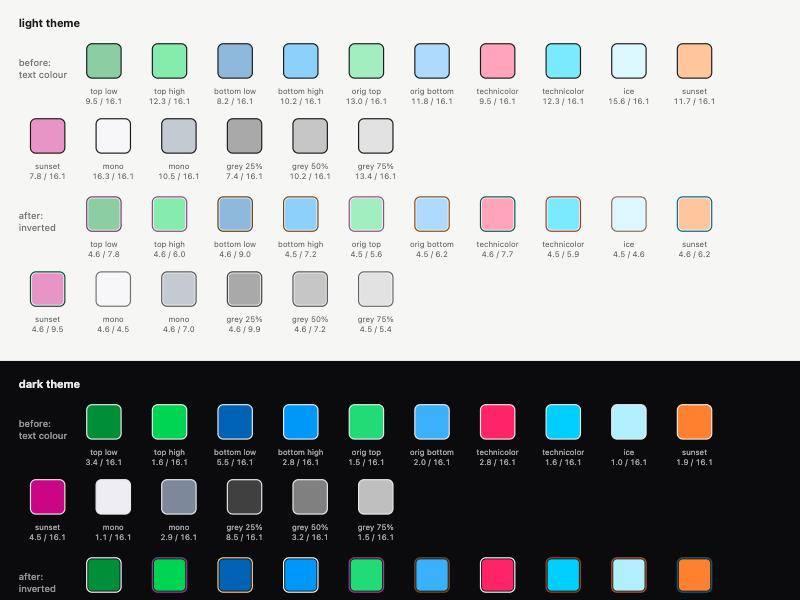
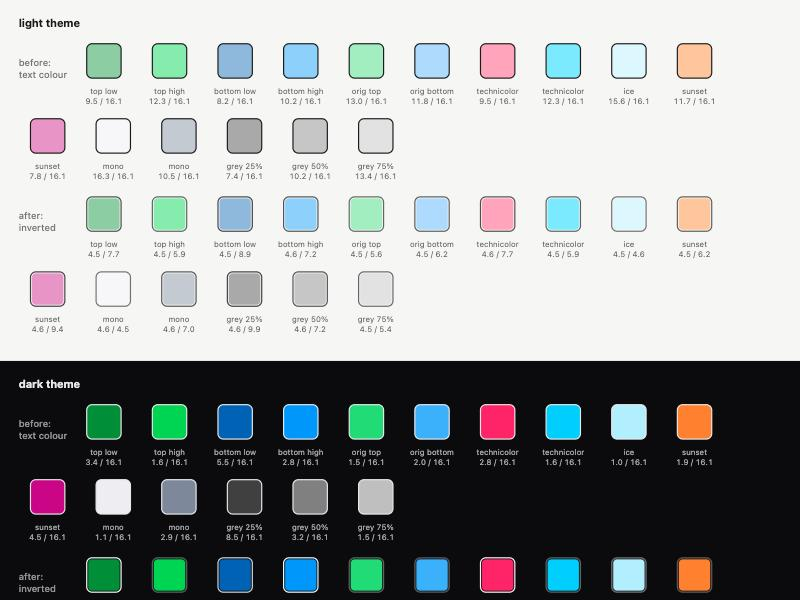
The inverted outline is monochrome: a grey chosen by contrast, never the column's hue
A green block no longer gets a purple line. Same contrast search against the column and the page, on greys only; casing in the page colour kept.

diff --git a/src/color.test.ts b/src/color.test.ts
@@ -86,21 +86,16 @@ describe("contrastRatio", () => {
 describe("invertedOutline", () => {
   const LIGHT = "#f6f6f4";
   const DARK = "#0b0b0e";
-  // (what the graph draws: the stock tones, the demo's palettes)
   // (the light theme's glass is a pale shell over its tone, which is the colour the outline is drawn on)
   const seen = (hex: string, bg: string) => (bg === LIGHT ? "#" + [1, 3, 5].map((i) => Math.round(parseInt(hex.slice(i, i + 2), 16) * 0.45 + 255 * 0.55).toString(16).padStart(2, "0")).join("") : hex);
+  // (what the graph draws: the stock tones, the demo's palettes)
   const COLOURS = ["#0a8f2c", "#00d63c", "#1658b8", "#1a8cff", "#3ddc6a", "#5aa9ff", "#ff3b6b", "#00c8ff", "#b9ecff", "#ff8a1f", "#c4128a", "#ffd60a"];
-  const hueGap = (a: string, b: string) => {
-    const d = Math.abs(lch(a).h - lch(b).h) % 360;
-    return Math.min(d, 360 - d);
-  };
+  const GREYS = ["#202020", "#404040", "#808080", "#a0a0a0", "#c0c0c0", "#e0e0e0"];
 
-  it("turns the hue half way round (blue to orange, green to magenta)", () => {
-    for (const hex of ["#1a8cff", "#3ddc6a", "#ff3b6b", "#c4128a"]) {
-      const out = invertedOutline(seen(hex, LIGHT), LIGHT);
-      // (the gamut can bend a colour's hue a little when it is made darker)
-      expect(Math.abs(hueGap(seen(hex, LIGHT), out) - 180)).toBeLessThan(25);
-      expect(lch(out).c).toBeGreaterThan(0.04);
+  it("is monochrome: a green cell does not get a purple line", () => {
+    for (const bg of [LIGHT, DARK]) for (const hex of [...COLOURS, ...GREYS]) {
+      const out = invertedOutline(seen(hex, bg), bg);
+      expect(out).toMatch(/^#([0-9a-f]{2})\1\1$/);
     }
   });
 
@@ -112,31 +107,23 @@ describe("invertedOutline", () => {
     }
   });
 
-  it("holds the contrast against the cell where the colours allow it, (and never the cell's own colour)", () => {
+  it("holds the contrast against the cell where the colours allow it", () => {
     for (const bg of [LIGHT, DARK]) for (const hex of COLOURS) {
       const cell = seen(hex, bg);
-      expect(contrastRatio(invertedOutline(cell, bg), cell)).toBeGreaterThanOrEqual(2.8);
+      expect(contrastRatio(invertedOutline(cell, bg), cell)).toBeGreaterThanOrEqual(2.7);
     }
-    // (on the light page every colour of the graph gets the whole of it)
     for (const hex of COLOURS) expect(contrastRatio(invertedOutline(seen(hex, LIGHT), LIGHT), seen(hex, LIGHT))).toBeGreaterThanOrEqual(OUTLINE_CONTRAST.cell - 0.2);
   });
 
-  it("gives a grey cell a grey outline of the opposite lightness, not the cell's own grey", () => {
-    for (const bg of [LIGHT, DARK]) for (const hex of ["#202020", "#404040", "#808080", "#a0a0a0", "#c0c0c0", "#e0e0e0"]) {
+  it("gives a grey cell an outline of the opposite lightness, not the cell's own grey", () => {
+    for (const bg of [LIGHT, DARK]) for (const hex of GREYS) {
       const out = invertedOutline(hex, bg);
-      expect(lch(out).c).toBeLessThan(0.02);
       expect(contrastRatio(out, hex)).toBeGreaterThan(2.6);
       expect(contrastRatio(out, bg)).toBeGreaterThan(2.6);
     }
-    // (a light grey on a light page: near-black; a dark grey on a dark page: near-white)
+    // (a light grey on a light page: dark; a dark grey on a dark page: light)
     expect(lch(invertedOutline("#c0c0c0", LIGHT)).l).toBeLessThan(0.55);
     expect(lch(invertedOutline("#404040", DARK)).l).toBeGreaterThan(0.6);
-  });
-
-  it("fades from colour to grey as the cell gets less coloured", () => {
-    const chroma = (hex: string) => lch(invertedOutline(hex, LIGHT)).c;
-    expect(chroma("#808080")).toBeLessThan(0.01);
-    expect(chroma("#7f879c")).toBeGreaterThan(chroma("#808080"));
   });
 
   it("is a #rrggbb for any input, numbers too", () => {

diff --git a/src/color.ts b/src/color.ts
@@ -96,20 +96,14 @@ export function contrastRatio(a: ColorInput, b: ColorInput): number {
 export const OUTLINE_CONTRAST = { background: 4.5, cell: 4.5 };
 
 /**
- * The colour of the outline round a cell: the opposite of what is behind it. The hue is the cell's turned half way round the OKLCH wheel (blue to orange, green to magenta), and the lightness is pushed away from the cell's, to the side where
- * the outline also stands out from the page (`background`: half of the outline is over the ground, half over the block). Of every lightness, the one kept is the one that best reaches `OUTLINE_CONTRAST` against both (the nearest to
- * the cell's own on a tie), so the outline is as colourful as the contrast allows. A grey cell (almost no chroma) has no hue to turn: it gets a grey outline picked by contrast alone, near-black or near-white, and a cell between the two
- * gets a part of the colour. Always a `#rrggbb`. Pure.
+ * The outline round a cell, monochrome: the grey of the lightness that best reaches `OUTLINE_CONTRAST` against both the cell and the page (`background`: half of the outline is over the ground, half over the block), the nearest to the cell's own
+ * lightness on a tie. So a light cell gets a dark grey, a dark one a light grey, and a mid one whichever side the page is not on; the hue of the cell is not used (a green block does not get a purple line). Always a grey `#rrggbb`. Pure.
  */
 export function invertedOutline(cell: ColorInput, background: ColorInput): string {
-  const { l: l0, c: c0, h } = srgbToOklch(parseColor(cell));
-  const hue = (h + 180) % 360;
-  // (how coloured the cell is: 0 for a grey, 1 from a chroma of 0.06; the outline's chroma follows, at least that of a clear colour)
-  const k = Math.min(1, Math.max(0, (c0 - 0.012) / 0.05));
-  const chroma = k * Math.min(0.2, Math.max(0.14, c0 * 1.1));
+  const l0 = srgbToOklch(parseColor(cell)).l;
   let best = { score: -1, dist: 9, rgb: [0, 0, 0] as [number, number, number] };
   for (let L = 0.04; L <= 0.985; L += 0.005) {
-    const rgb = fit(L, chroma, hue);
+    const rgb = fromGrey(L);
     const c = hex(rgb);
     const score = Math.min(1, contrastRatio(c, background) / OUTLINE_CONTRAST.background, contrastRatio(c, cell) / OUTLINE_CONTRAST.cell);
     const dist = Math.abs(L - l0);

diff --git a/src/overlay.ts b/src/overlay.ts
@@ -6,8 +6,7 @@ export interface OverlayOptions {
   /** Draw the outline of the day's blocks (default true). */
   outline?: boolean;
   /**
-   * What colour the outline is: `"inverted"` (default) takes the opposite of what is behind it (the column's colour turned half way round the hue wheel, its lightness pushed away from the column's and the page's so that it holds a contrast of 4.5:1 against the page and, where the colours allow it, against the column; greys get a
-   * near-black or near-white one), `"text"` is the text colour (`currentColor`), as before. `--nag-outline` overrides either; the inverted one is cased in the page's colour (`--nag-outline-halo`, `transparent` for none).
+   * What colour the outline is: `"inverted"` (default) is a grey chosen by contrast against the column and the page (dark on a light column, light on a dark one, never the column's hue), 4.5:1 where the colours allow it; `"text"` is the text colour (`currentColor`), as before. `--nag-outline` overrides either; the inverted one is cased in the page's colour (`--nag-outline-halo`, `transparent` for none).
    */
   outlineColor?: "inverted" | "text";
   /** The day card: `true` for the default one, `false` for none, or a function that returns its content (text or a node). */

diff --git a/README.md b/README.md
@@ -165,7 +165,7 @@ The [demo](https://neon.bsodium.fr/) has a few presets (Technicolor, Ice, Sunset
 
 `overlay: true` (or `<ActivityGraphView overlay />`) draws the selected day's outline (an SVG path around its blocks) and a day card over the graph. `outline: false` and `card: false` turn either off, `outlineColor` is `"inverted"` (default, see below) or `"text"` (the text colour), `card` can also be a function `(info) => string | Node` for your own content, and `locale` formats the default card's date. Style it with CSS variables on the container or above: `--nag-outline`, `--nag-outline-halo`, `--nag-outline-fill`, `--nag-card-bg`, `--nag-card-fg`, `--nag-card-muted`, `--nag-card-radius`, `--nag-top`, `--nag-bottom`.
 
-**The inverted outline.** The outline takes the opposite of what is behind it: the column's colour with its hue turned half way round the OKLCH wheel (blue gives orange, green gives magenta), its lightness pushed away from the column's and the page's until it holds a 4.5:1 contrast ratio (WCAG) against both, as far as the colours allow (a bright green on a dark page tops out near 3:1), and cased in the page's colour so that it stands out from whatever is behind it (`--nag-outline-halo`; `transparent` for no casing). A grey column has no hue to turn: it gets a grey outline picked by contrast alone (near-black or near-white), and a nearly grey one only part of the colour. `--nag-outline` overrides it. It is exported as `invertedOutline(cell, background)`, with `contrastRatio(a, b)`; `pnpm dev` then `/outline.html` shows it over the colours of both themes.
+**The inverted outline.** The outline is monochrome and takes the opposite lightness of what is behind it: the grey, from near-black to near-white, that holds a 4.5:1 contrast ratio (WCAG) against both the column and the page, as far as the colours allow (a bright green on a dark page tops out near 3:1). It is cased in the page's colour so that it stands out from whatever is behind it (`--nag-outline-halo`; `transparent` for no casing). The column's hue is not used: a green block does not get a purple line. `--nag-outline` overrides it. It is exported as `invertedOutline(cell, background)`, with `contrastRatio(a, b)`; `pnpm dev` then `/outline.html` shows it over the colours of both themes.
 
 `createHoverOverlay(container, options, labels)` is the same overlay on its own, for a graph you drive yourself.
 
